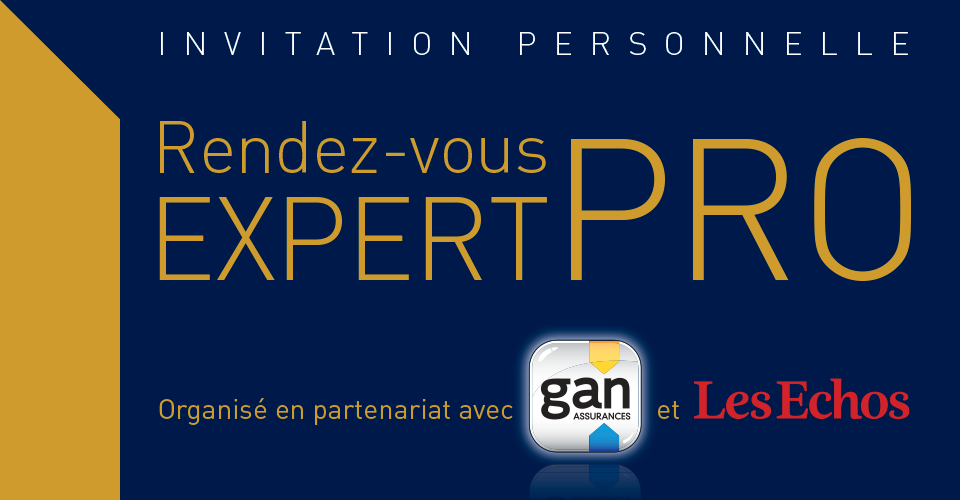
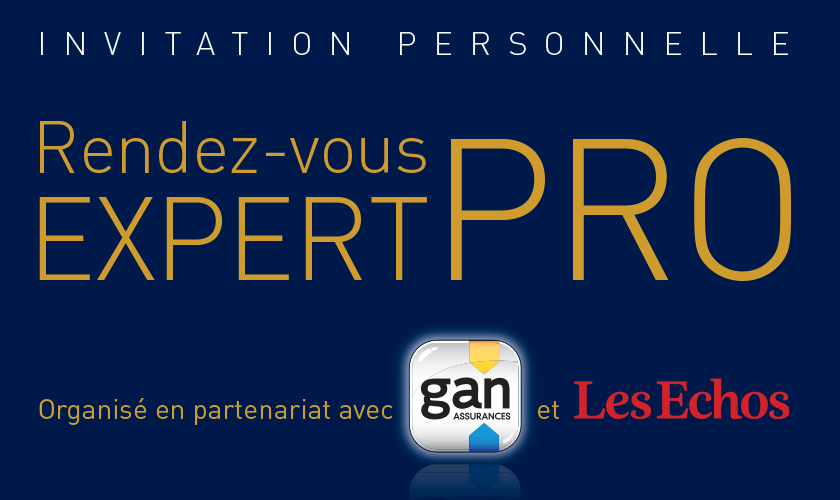
Modification header

Changed region(s): [[0.0, 0.0, 0.9595, 1.0], [0.5262, 0.06, 0.9595, 0.12], [0.1238, 0.06, 0.4952, 0.12]]

diff --git a/templates/gan_rendezvousexpertpro/newsletter-inline.html b/templates/gan_rendezvousexpertpro/newsletter-inline.html
@@ -450,9 +450,14 @@ color: #ffffff !important;
 										<td class="wrapper last" style="-moz-hyphens: auto; -webkit-hyphens: auto; border-collapse: collapse !important; color: #022548; font-family: 'Helvetica Neue', Helvetica, Arial, sans-serif; font-size: 14px; font-weight: normal; hyphens: auto; line-height: 18px; margin: 0; padding: 0 0px 0px; position: relative; text-align: left; vertical-align: top; word-break: break-word" align="left" valign="top">
 											<table class="twelve columns" style="-premailer-cellpadding: 0; -premailer-cellspacing: 0; -premailer-width: 720; border-collapse: collapse; border-spacing: 0; empty-cells: hide; margin: 0 auto; padding: 0; text-align: left; vertical-align: top; width: 720px" width="720" cellpadding="0" cellspacing="0">
 												<tr style="padding: 0; text-align: left; vertical-align: top" align="left">
-													<td class="eight sub-columns first" style="-moz-hyphens: auto; -premailer-width: 66.666666%; -webkit-hyphens: auto; border-collapse: collapse !important; color: #022548; font-family: 'Helvetica Neue', Helvetica, Arial, sans-serif; font-size: 14px; font-weight: normal; hyphens: auto; line-height: 18px; margin: 0; min-width: 0px; padding: 0px 0 0 0px; text-align: left; vertical-align: top; width: 66.666666%; word-break: break-word" align="left" valign="top" width="66.666666%">
+													<td class="one sub-columns first" style="-moz-hyphens: auto; -premailer-width: 8.333333%; -webkit-hyphens: auto; border-collapse: collapse !important; color: #022548; font-family: 'Helvetica Neue', Helvetica, Arial, sans-serif; font-size: 14px; font-weight: normal; hyphens: auto; line-height: 18px; margin: 0; min-width: 0px; padding: 0px 0 0 0px; text-align: left; vertical-align: top; width: 8.333333%; word-break: break-word" align="left" valign="top" width="8.333333%">
 														<a target="_blank" class="link_box" href="http://www.rdvexpertpro.fr" style="color: #022548; display: block; outline: none; text-decoration: none">
-															<img src="http://newsletter-templates.eilep.com/templates/gan_rendezvousexpertpro/theme/images/gan_rdvep_header.png" alt="Gan&#160;-&#160;Rendez-vous&#160;ExpertPro" width="480" height="250" style="-ms-interpolation-mode: bicubic; border: none; clear: both; display: block; float: left; max-width: 100%; outline: none; text-decoration: none; width: auto" align="left" />
+															<img src="http://newsletter-templates.eilep.com/templates/gan_rendezvousexpertpro/theme/images/gan_rdvep_header-col.png" alt="Gan&#160;-&#160;Rendez-vous&#160;ExpertPro" width="60" height="250" style="-ms-interpolation-mode: bicubic; border: none; clear: both; display: block; float: left; max-width: 100%; outline: none; text-decoration: none; width: auto" align="left" />
+														</a>
+													</td>
+													<td class="seven sub-columns" style="-moz-hyphens: auto; -premailer-width: 58.333333%; -webkit-hyphens: auto; border-collapse: collapse !important; color: #022548; font-family: 'Helvetica Neue', Helvetica, Arial, sans-serif; font-size: 14px; font-weight: normal; hyphens: auto; line-height: 18px; margin: 0; min-width: 0px; padding: 0px 0 0 0px; text-align: left; vertical-align: top; width: 58.333333%; word-break: break-word" align="left" valign="top" width="58.333333%">
+														<a target="_blank" class="link_box" href="http://www.rdvexpertpro.fr" style="color: #022548; display: block; outline: none; text-decoration: none">
+															<img src="http://newsletter-templates.eilep.com/templates/gan_rendezvousexpertpro/theme/images/gan_rdvep_header.png" alt="Gan&#160;-&#160;Rendez-vous&#160;ExpertPro" width="420" height="250" style="-ms-interpolation-mode: bicubic; border: none; clear: both; display: block; float: left; max-width: 100%; outline: none; text-decoration: none; width: auto" align="left" />
 														</a>
 													</td>
 													<td class="four sub-columns last" style="-moz-hyphens: auto; -premailer-width: 33.333333%; -webkit-hyphens: auto; border-collapse: collapse !important; color: #022548; font-family: 'Helvetica Neue', Helvetica, Arial, sans-serif; font-size: 14px; font-weight: normal; hyphens: auto; line-height: 18px; margin: 0; min-width: 0px; padding: 0px 0 0 0px; text-align: left; vertical-align: top; width: 33.333333%; word-break: break-word" align="left" valign="top" width="33.333333%">

diff --git a/templates/gan_rendezvousexpertpro/newsletter-inline-postanova.html b/templates/gan_rendezvousexpertpro/newsletter-inline-postanova.html
@@ -450,9 +450,14 @@ color: #ffffff !important;
 										<td class="wrapper last" style="-moz-hyphens: auto; -webkit-hyphens: auto; border-collapse: collapse !important; color: #022548; font-family: 'Helvetica Neue', Helvetica, Arial, sans-serif; font-size: 14px; font-weight: normal; hyphens: auto; line-height: 18px; margin: 0; padding: 0 0px 0px; position: relative; text-align: left; vertical-align: top; word-break: break-word" align="left" valign="top">
 											<table class="twelve columns" style="border-collapse: collapse; border-spacing: 0; empty-cells: hide; margin: 0 auto; padding: 0; text-align: left; vertical-align: top; width: 720px" width="720" cellpadding="0" cellspacing="0">
 												<tr style="padding: 0; text-align: left; vertical-align: top" align="left">
-													<td class="eight sub-columns first" style="-moz-hyphens: auto; -webkit-hyphens: auto; border-collapse: collapse !important; color: #022548; font-family: 'Helvetica Neue', Helvetica, Arial, sans-serif; font-size: 14px; font-weight: normal; hyphens: auto; line-height: 18px; margin: 0; min-width: 0px; padding: 0px 0 0 0px; text-align: left; vertical-align: top; width: 66.666666%; word-break: break-word" align="left" valign="top" width="66.666666%">
+													<td class="one sub-columns first" style="-moz-hyphens: auto; -webkit-hyphens: auto; border-collapse: collapse !important; color: #022548; font-family: 'Helvetica Neue', Helvetica, Arial, sans-serif; font-size: 14px; font-weight: normal; hyphens: auto; line-height: 18px; margin: 0; min-width: 0px; padding: 0px 0 0 0px; text-align: left; vertical-align: top; width: 8.333333%; word-break: break-word" align="left" valign="top" width="8.333333%">
 														<a target="_blank" class="link_box" href="http://www.rdvexpertpro.fr" style="color: #022548; display: block; outline: none; text-decoration: none">
-															<img src="http://newsletter-templates.eilep.com/templates/gan_rendezvousexpertpro/theme/images/gan_rdvep_header.png" alt="Gan&#160;-&#160;Rendez-vous&#160;ExpertPro" width="480" height="250" style="-ms-interpolation-mode: bicubic; border: none; clear: both; display: block; float: left; max-width: 100%; outline: none; text-decoration: none; width: auto" align="left" />
+															<img src="http://newsletter-templates.eilep.com/templates/gan_rendezvousexpertpro/theme/images/gan_rdvep_header-col.png" alt="Gan&#160;-&#160;Rendez-vous&#160;ExpertPro" width="60" height="250" style="-ms-interpolation-mode: bicubic; border: none; clear: both; display: block; float: left; max-width: 100%; outline: none; text-decoration: none; width: auto" align="left" />
+														</a>
+													</td>
+													<td class="seven sub-columns" style="-moz-hyphens: auto; -webkit-hyphens: auto; border-collapse: collapse !important; color: #022548; font-family: 'Helvetica Neue', Helvetica, Arial, sans-serif; font-size: 14px; font-weight: normal; hyphens: auto; line-height: 18px; margin: 0; min-width: 0px; padding: 0px 0 0 0px; text-align: left; vertical-align: top; width: 58.333333%; word-break: break-word" align="left" valign="top" width="58.333333%">
+														<a target="_blank" class="link_box" href="http://www.rdvexpertpro.fr" style="color: #022548; display: block; outline: none; text-decoration: none">
+															<img src="http://newsletter-templates.eilep.com/templates/gan_rendezvousexpertpro/theme/images/gan_rdvep_header.png" alt="Gan&#160;-&#160;Rendez-vous&#160;ExpertPro" width="420" height="250" style="-ms-interpolation-mode: bicubic; border: none; clear: both; display: block; float: left; max-width: 100%; outline: none; text-decoration: none; width: auto" align="left" />
 														</a>
 													</td>
 													<td class="four sub-columns last" style="-moz-hyphens: auto; -webkit-hyphens: auto; border-collapse: collapse !important; color: #022548; font-family: 'Helvetica Neue', Helvetica, Arial, sans-serif; font-size: 14px; font-weight: normal; hyphens: auto; line-height: 18px; margin: 0; min-width: 0px; padding: 0px 0 0 0px; text-align: left; vertical-align: top; width: 33.333333%; word-break: break-word" align="left" valign="top" width="33.333333%">
